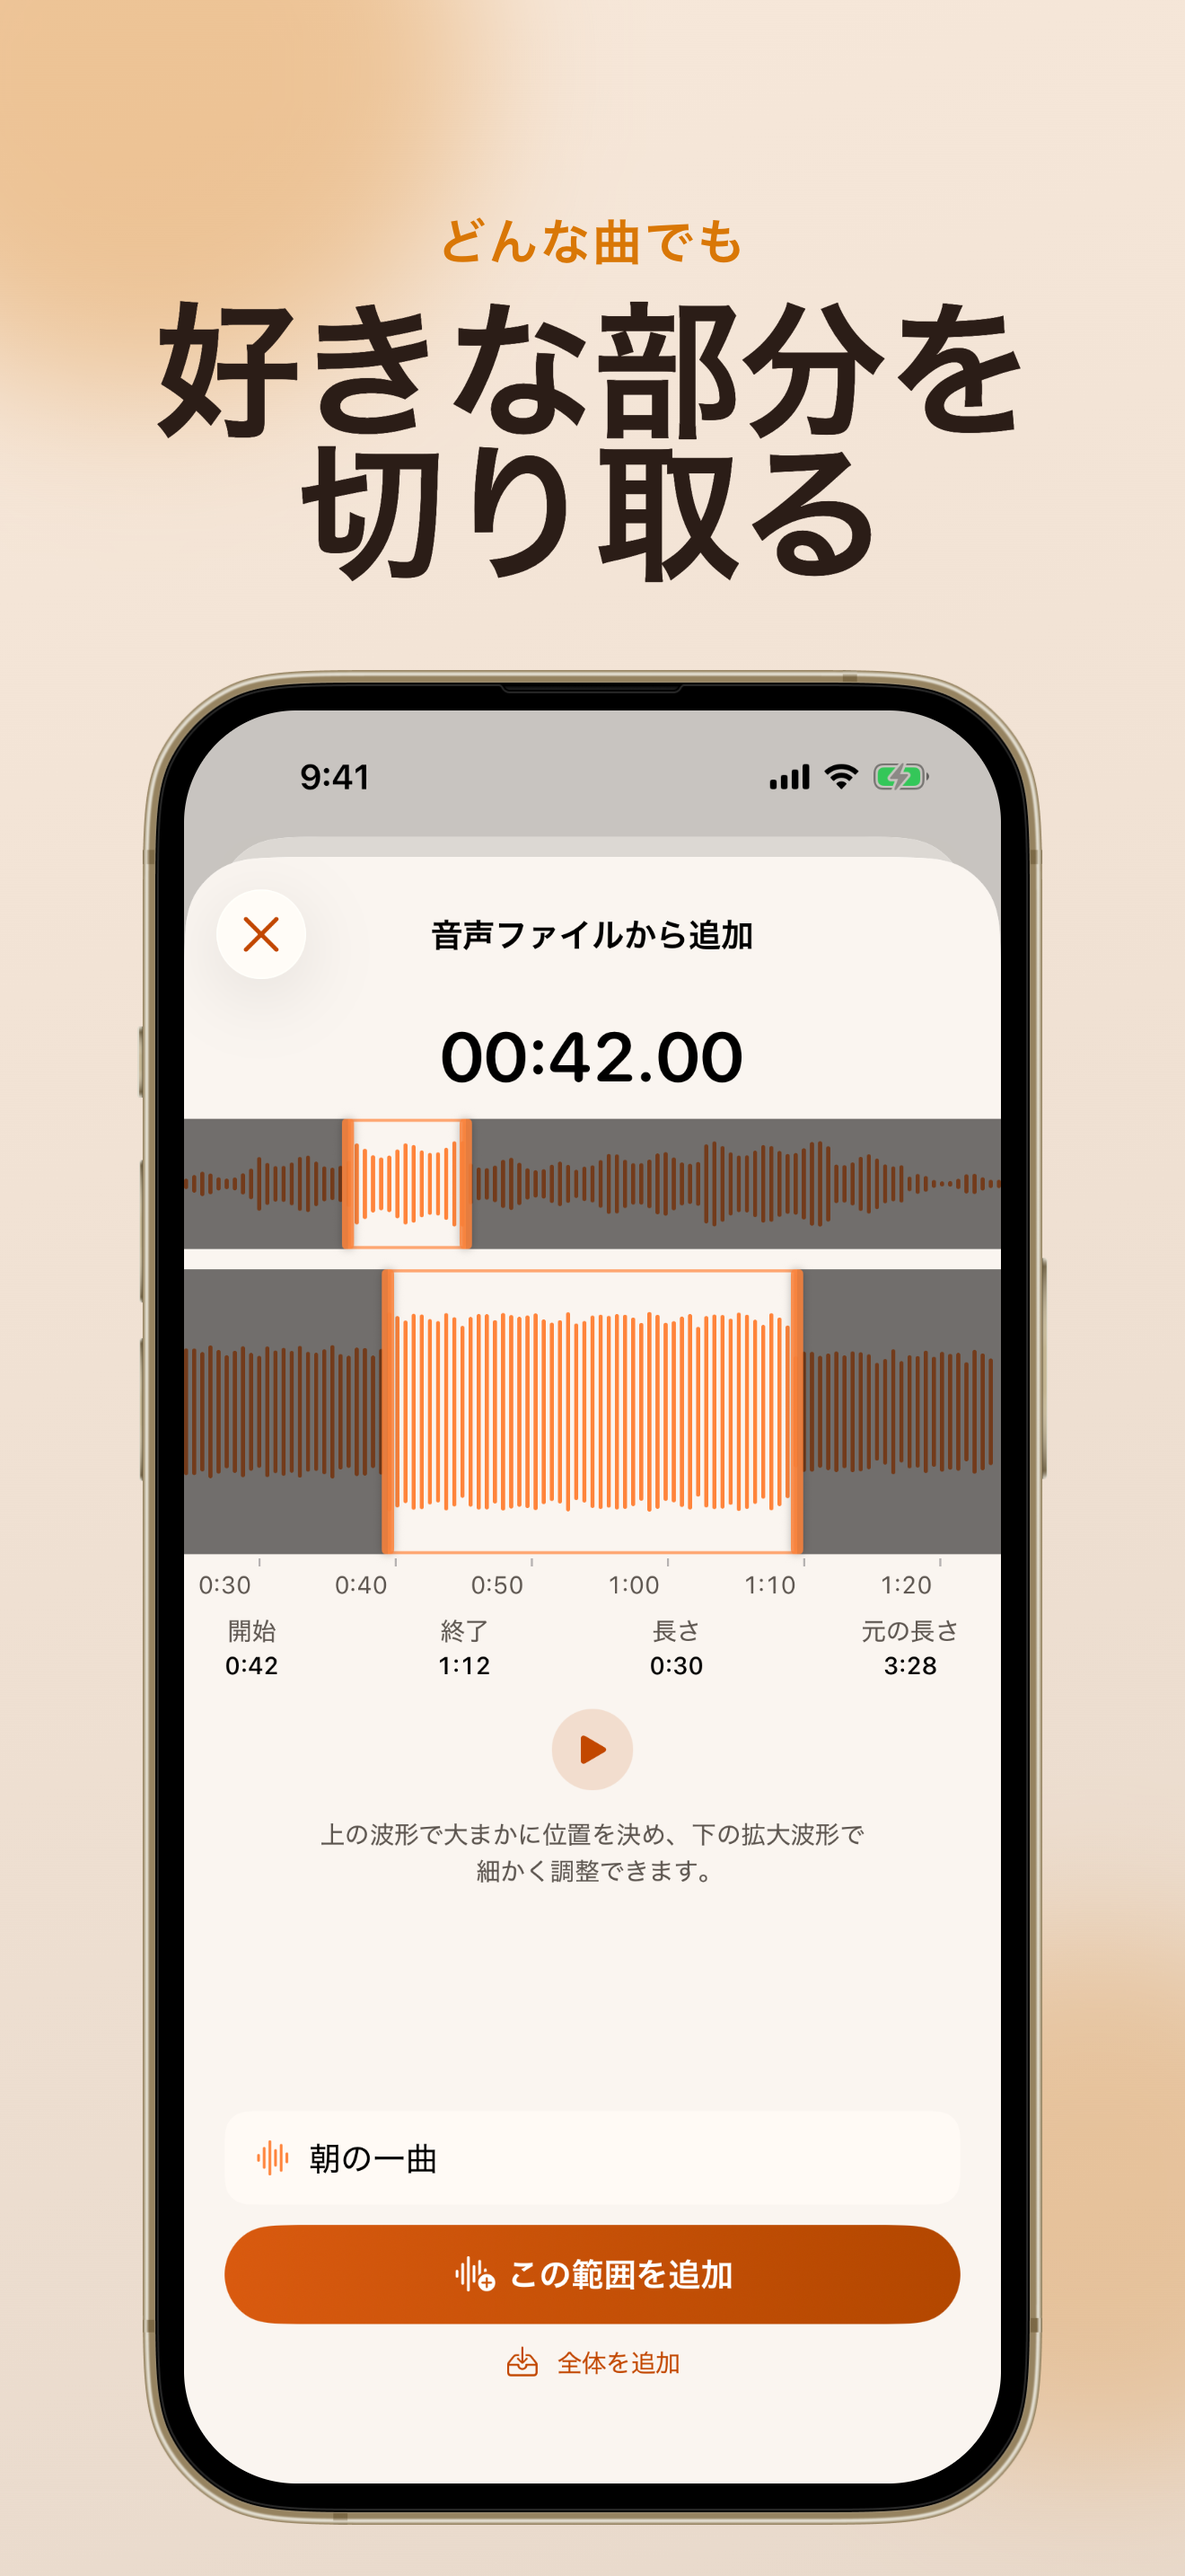
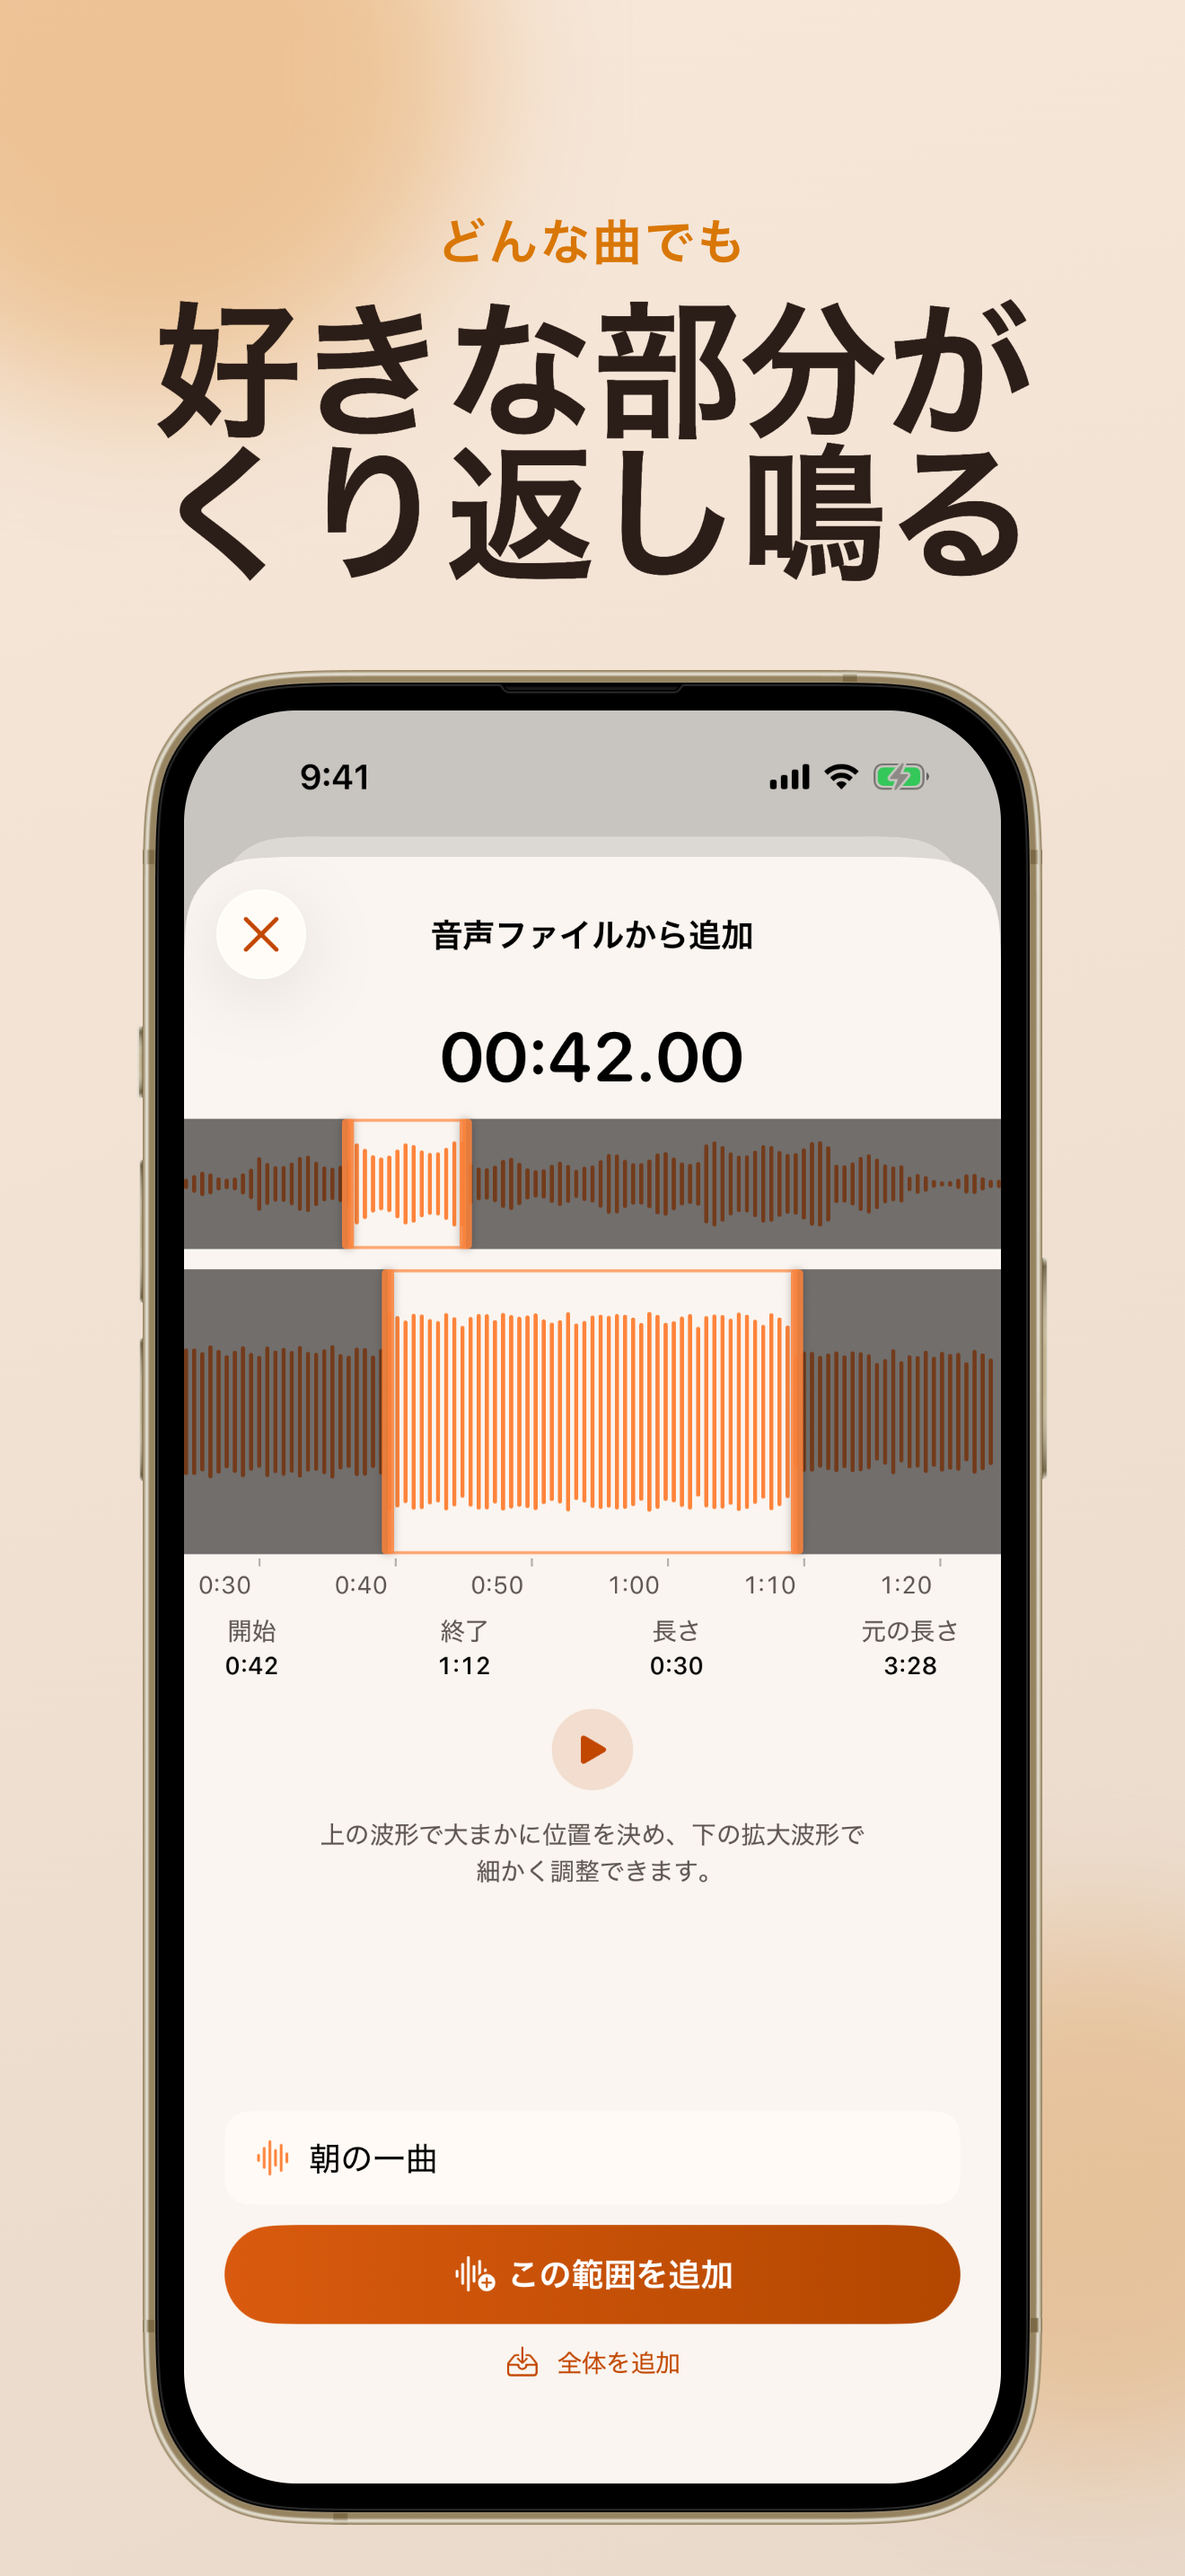
chore(store): benefit headline for #2 and a video illustration for #5 (#218)
- #2: "好きな部分が／くり返し鳴る" / "Best part. On repeat." says what
  the cut is for, not the act of cutting.
- #5: an illustration of a video's sound becoming the alarm replaces the
  library screen, which read as small text at store size.
- Keep the source illustrations under art/.

Claude-Session: https://claude.ai/code/session_01H3m5bxJzxYnBapGaqEKWQD

Changed region(s): [[0.2485, 0.0931, 0.8697, 0.2483], [0.1553, 0.1552, 0.2174, 0.2483]]

diff --git a/scripts/store/compose_illustration_slides.py b/scripts/store/compose_illustration_slides.py
@@ -43,6 +43,7 @@ def card(path, box, width, radius=44):
 def place(bg,img,x,y): bg.alpha_composite(img,(int(x),int(y)))
 
 hero=knockout(SC+'onboarding_hero.png'); silent=knockout(SC+'onboarding_silent.png')
+vd=Image.open(SC+'msa-video-illust-v1.png').convert('RGBA'); vd=vd.crop(vd.getchannel('A').point(lambda a:255 if a>20 else 0).getbbox())
 pl=Image.open(SC+'msa-playlist-illust-v2.png').convert('RGBA'); pl=pl.crop(pl.getchannel('A').point(lambda a:255 if a>20 else 0).getbbox())
 for l in ['ja','en']:
     # 1
@@ -59,7 +60,11 @@ for l in ['ja','en']:
     bg=Image.open(EX+f'{l}/04-no-device.png').convert('RGBA')
     S=int(1254*1.32); s=silent.resize((S,S),Image.LANCZOS); place(bg,s,(W-S)/2,H-S)
     bg.convert('RGB').save(OUT+f'{l}-04.png')
-    for n,src in [('02','02-device-bottom'),('05','05-device-bottom')]:
+    # 5
+    bg=Image.open(EX+f'{l}/05-no-device.png').convert('RGBA')
+    vw=1220; v=vd.resize((vw,int(vd.height*vw/vd.width)),Image.LANCZOS); place(bg,v,(W-vw)/2,1750-v.height/2)
+    bg.convert('RGB').save(OUT+f'{l}-05.png')
+    for n,src in [('02','02-device-bottom')]:
         Image.open(EX+f'{l}/{src}.png').convert('RGB').save(OUT+f'{l}-{n}.png')
 # contact sheet
 for l in ['ja','en']:
